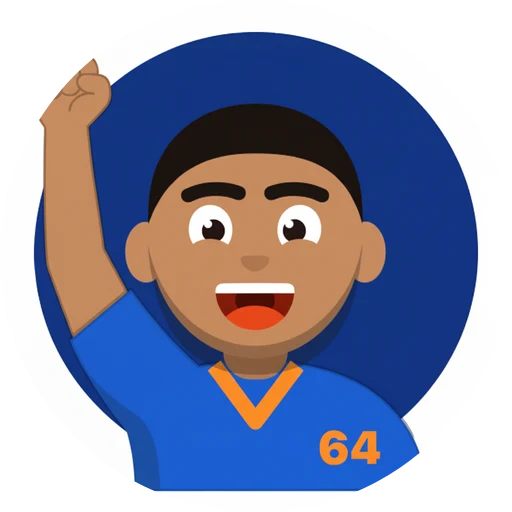
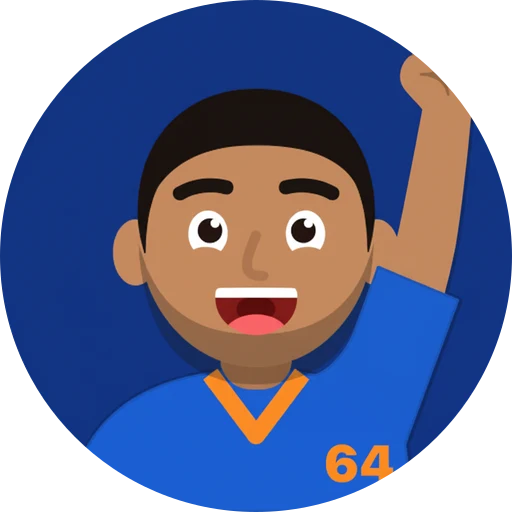
Home figure: portrait fallback for legends without full-body art

diff --git a/src/components/PlayerFigure.tsx b/src/components/PlayerFigure.tsx
@@ -11,12 +11,13 @@ import type { Mood } from "./Toon";
 export function PlayerFigure({ code, className = "", mood = "idle" }: { code: string | null | undefined; className?: string; mood?: Mood }) {
   const legend = legendOf(code);
   const painted = useRigImage(legend ? null : code);
-  const src = legend ? `/legends/${legend.id}/full.webp` : painted;
+  // A legend without its full-body render yet (scripts/legend-full.mts) shows its portrait instead of a broken image.
+  const src = legend ? `/legends/${legend.id}/${legend.full ? "full" : "idle"}.webp` : painted;
   return (
     <div className={`fig fig-render ${className} mood-${mood}`}>
       <div className="fig-shadow" />
       {/* eslint-disable-next-line @next/next/no-img-element -- pre-rendered transparent webp */}
-      {src && <img key={src} src={src} alt="" aria-hidden className="fig-body rise block h-full w-full object-contain" />}
+      {src && <img key={src} src={src} alt="" aria-hidden className={`fig-body rise block h-full w-full object-contain ${legend && !legend.full ? "object-bottom p-[18%] pb-[8%]" : ""}`} />}
     </div>
   );
 }
